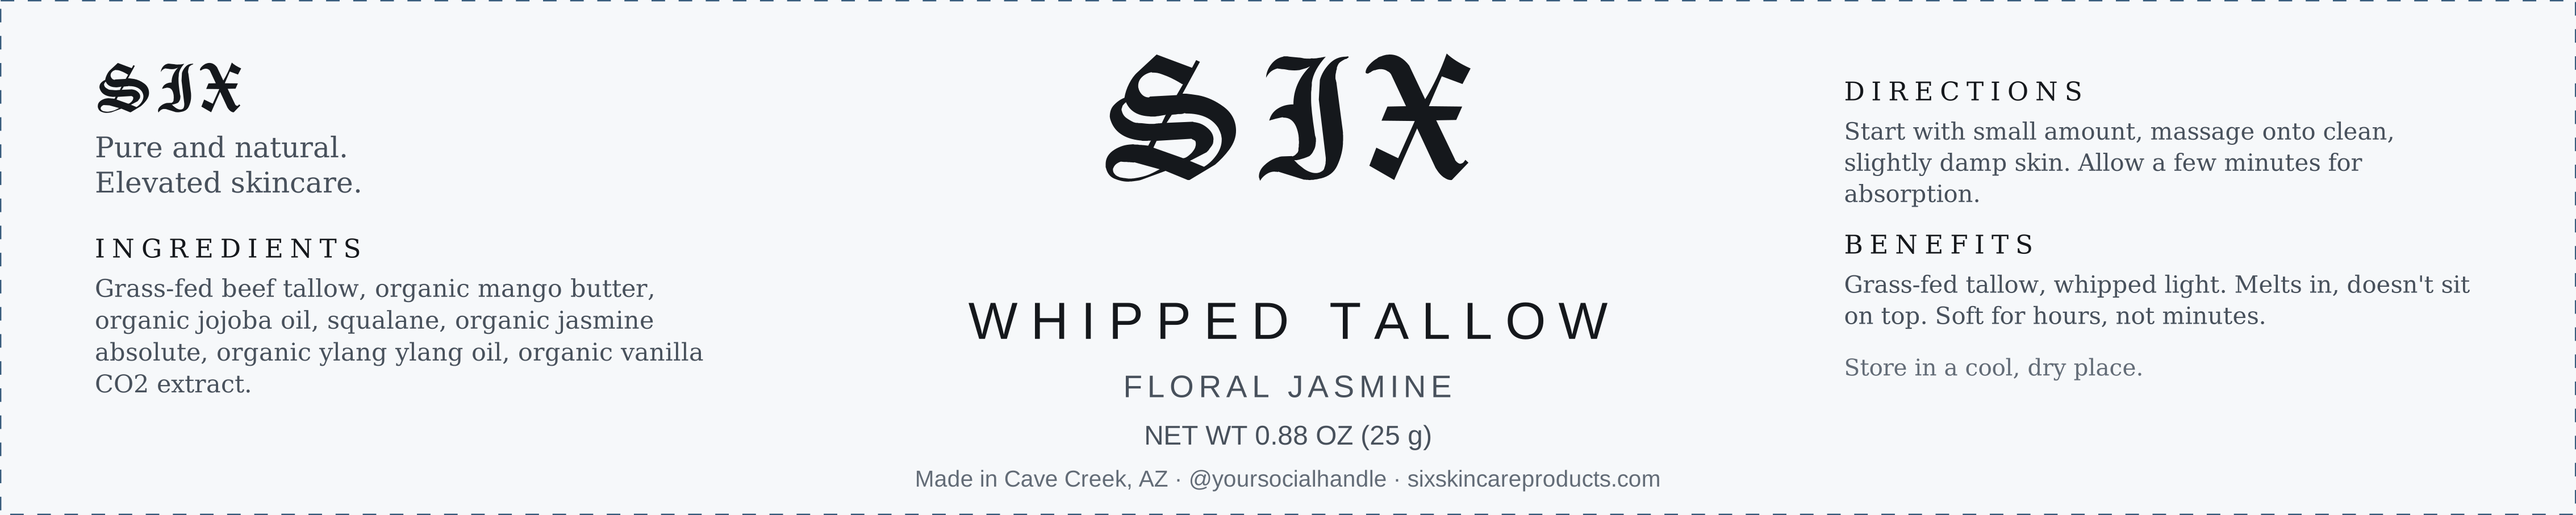
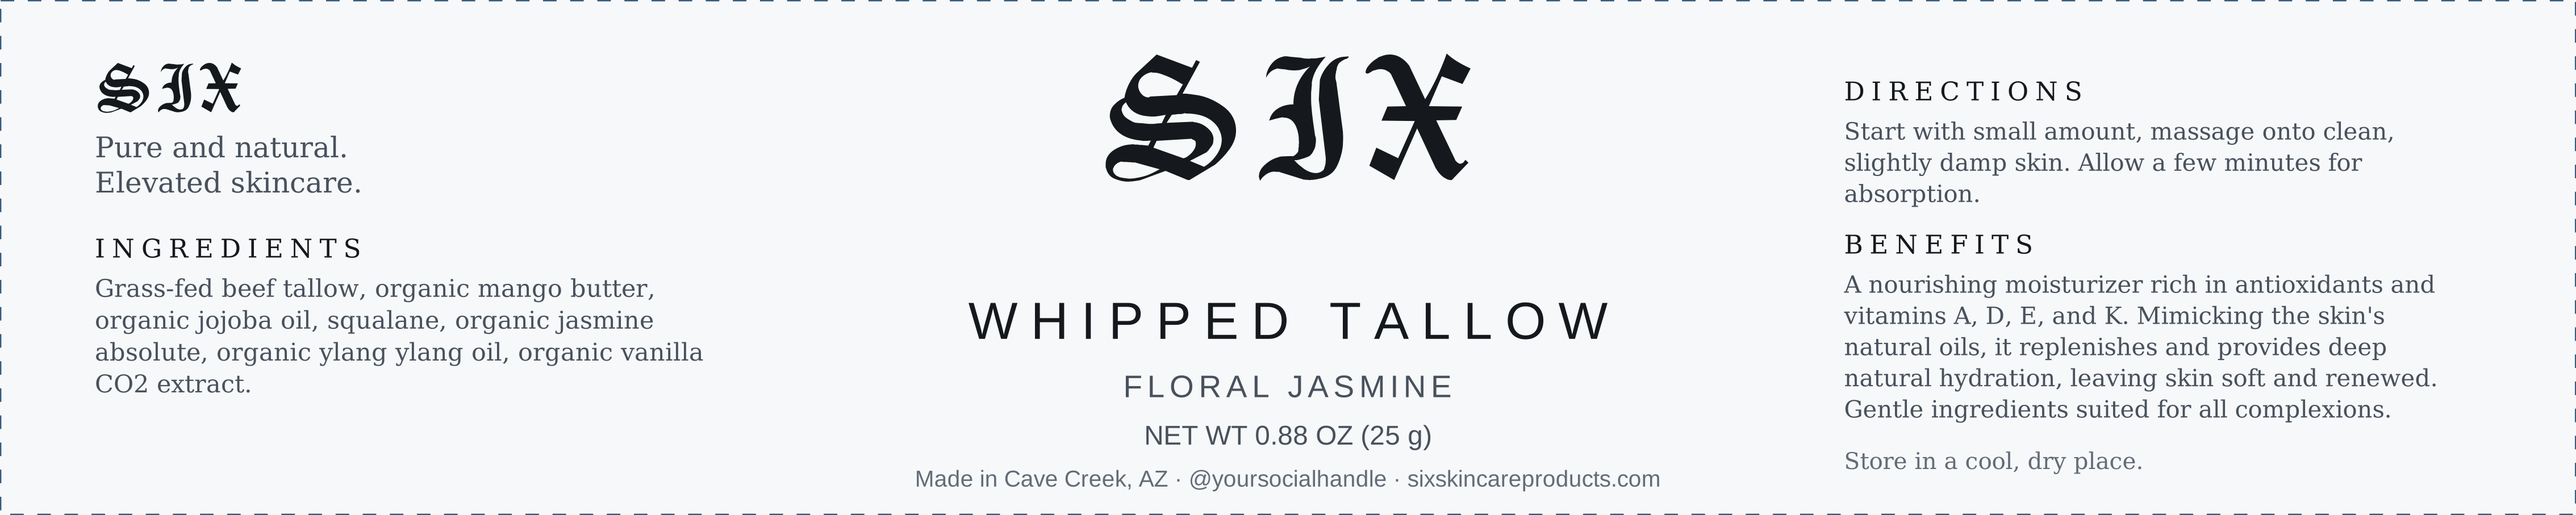
Use the owner's benefits copy on the label
Claude-Session: https://claude.ai/code/session_01TYn4u9H1AxY32yb73P56yk

Changed region(s): [[0.7151, 0.5248, 0.9638, 0.8335], [0.7151, 0.8644, 0.8395, 0.9261]]

diff --git a/scripts/make-labels.py b/scripts/make-labels.py
@@ -88,12 +88,12 @@ DIRECTIONS = (
     "Allow a few minutes for absorption."
 )
 
-# Three beats, no paragraph. Says what it is, what it does differently, and
-# how long it lasts — all in appearance-and-feel language, which is the only
-# register a cosmetic gets.
+# Owner's wording.
 BENEFITS = (
-    "Grass-fed tallow, whipped light. Melts in, doesn't sit on top. "
-    "Soft for hours, not minutes."
+    "A nourishing moisturizer rich in antioxidants and vitamins A, D, E, and K. "
+    "Mimicking the skin's natural oils, it replenishes and provides deep natural "
+    "hydration, leaving skin soft and renewed. Gentle ingredients suited for all "
+    "complexions."
 )
 
 NET_PLACEHOLDER = "NET WT ______ OZ (______ g)"
